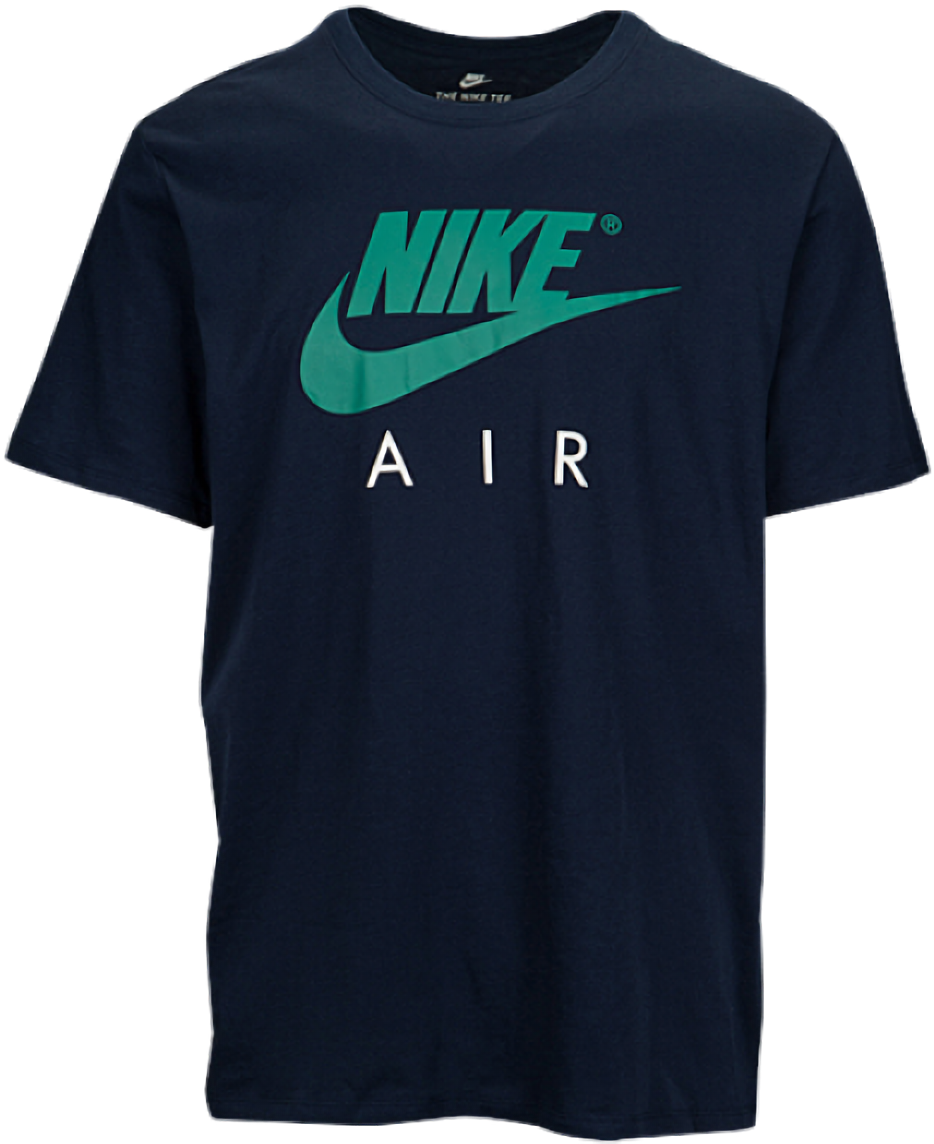
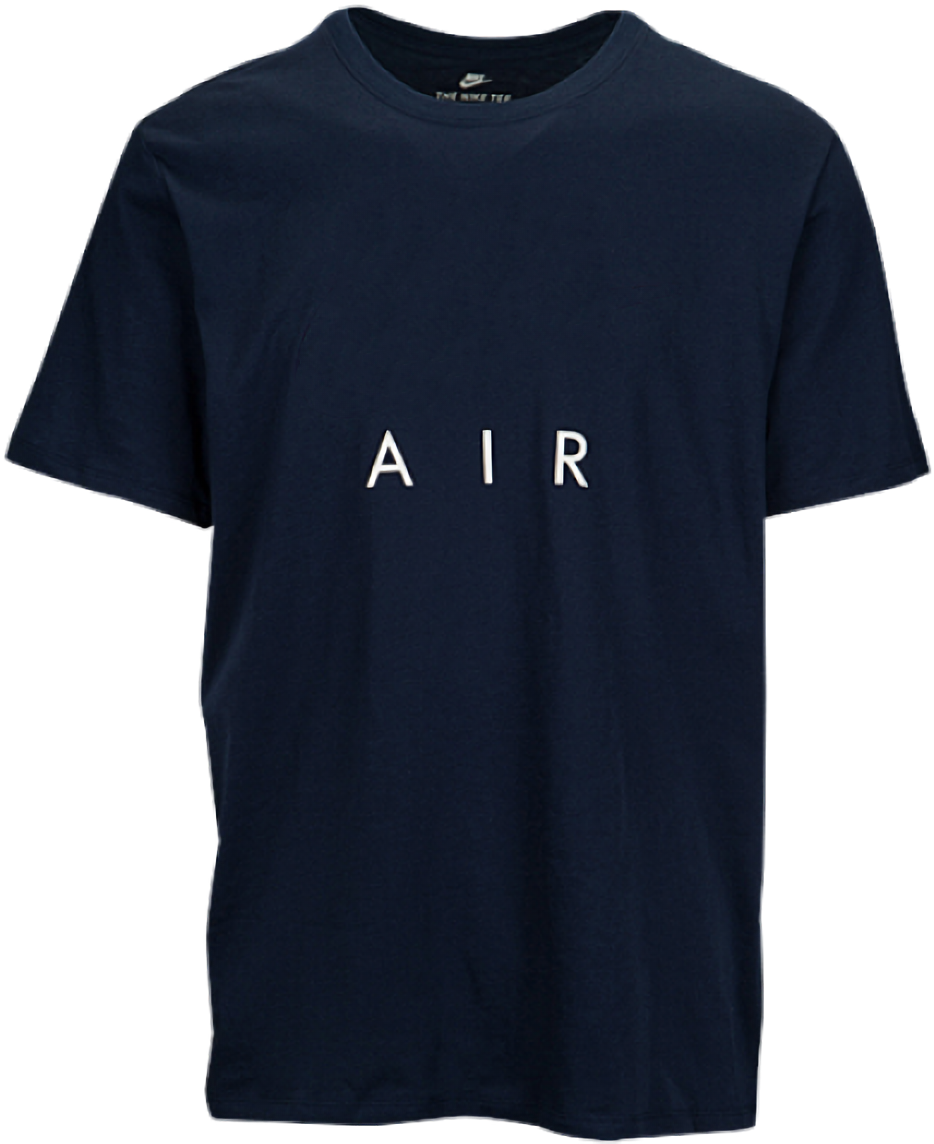
changes

Changed region(s): [[0.3105, 0.1836, 0.7141, 0.3671]]

diff --git a/index.html b/index.html
@@ -54,8 +54,321 @@
             </div>
             <div class="majica">
                 <img src="slike/majica4.png" alt="majica" />
-                <svg xmlns="http://www.w3.org/2000/svg" xmlns:xlink="http://www.w3.org/1999/xlink" id="majica_nike" viewBox="0.34 0 194.66 71.01">
-                    <path fill="#1f897a" d="M26.000,0.000 C26.000,0.000 5.023,47.247 47.000,38.000 C88.977,28.753 104.833,19.043 134.000,13.000 C163.167,6.957 195.000,8.000 195.000,8.000 C195.000,8.000 141.016,20.914 126.000,28.000 C110.984,35.086 60.000,59.000 60.000,59.000 C60.000,59.000 37.383,70.575 24.000,71.000 C10.617,71.425 -22.827,56.900 26.000,0.000 Z"></path>
+                <svg version="1.1" id="majica_nike" xmlns="http://www.w3.org/2000/svg" xmlns:xlink="http://www.w3.org/1999/xlink" viewBox="0 0 408 228" xml:space="preserve">  <image id="image0" width="408" height="228" x="0" y="0"
[5 lines of base64/hex data omitted]
+                MIqiKIoUKsEoiqIoUqgEoyiKokihEoyiKIoihUowiqIoihQqwSiKoihSqASjKIqiSKESjKIoiiKF
[307 lines of base64/hex data omitted]
+                TkSuQmCC" />
                 </svg>
             </div>
         </div>
@@ -69,7 +382,7 @@
         <p class="naslov"><b>In kot nov izdelek leta vam ponujam naše nove artikle športne torbe</b></p>
         <div class="vsebina">
             <div class="torba">
-                <img src="slike/torba.jpg" alt="torba" />
+                <img src="slike/torba.png" alt="torba" />
                 <canvas id="canvas"></canvas>
             </div>
             <div class="text">
@@ -88,7 +401,7 @@
             </p>
         </div>
         <div class="text">
-            <p> <b>Nike World Headquarters</b><br/> One Bowerman Drive<br/> Beaverton, OR 97005<br/> Phone: 1-503-671-6453
+            <p> <b>Svetovni sedež Nike</b><br/> One Bowerman Drive<br/> Beaverton, OR 97005<br/> Telefon: 1-503-671-6453
             </p>
         </div>
     </div>

diff --git a/css/style.css b/css/style.css
@@ -103,7 +103,7 @@ body {
     width: 19.5vh;
     top: 29.7vh;
     left: 25.7vh;
-    opacity: 10%;
+    opacity: 70%;
 }
 
 .prvi svg {
@@ -157,10 +157,10 @@ body {
 
 #majica_nike {
     position: absolute;
-    width: 24.3vh;
-    top: 17.7vh;
-    left: 19.2vh;
-    opacity: 60%;
+    width: 26.5vh;
+    top: 12.5vh;
+    left: 18.6vh;
+    opacity: 90%;
 }
 
 .drugi svg {
@@ -221,6 +221,7 @@ body {
     width: 35vh;
     top: 60.45vh;
     left: 34.5vh;
+    opacity: 80%;
 }
 
 
